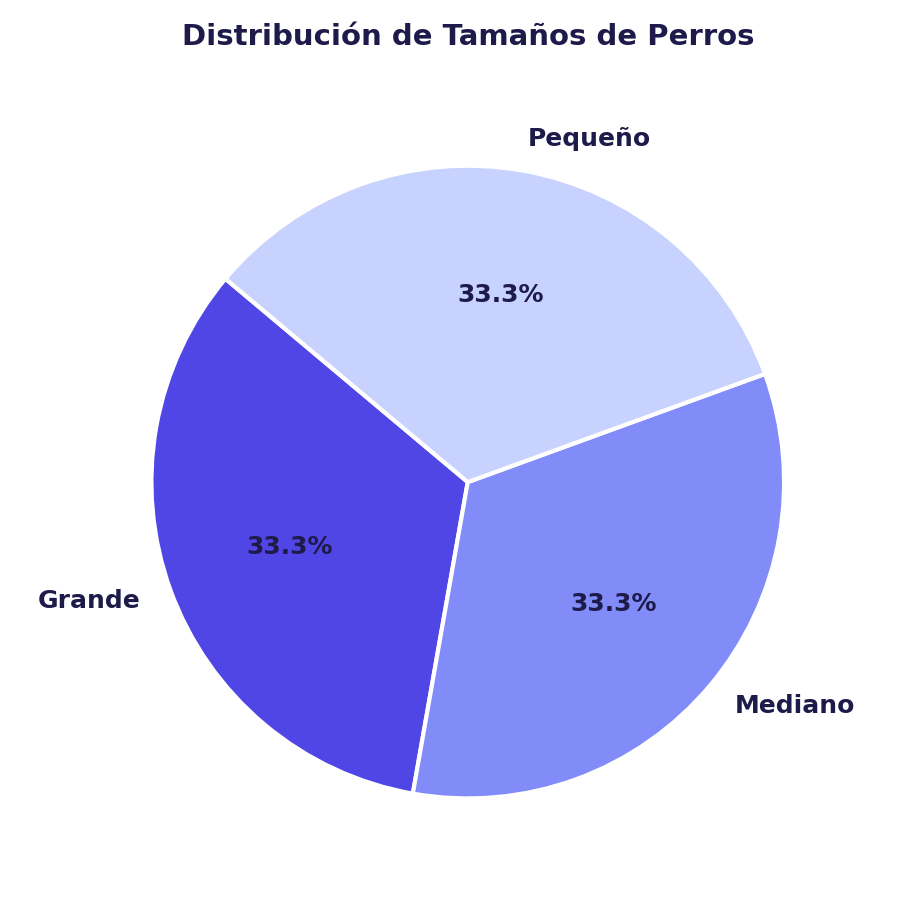
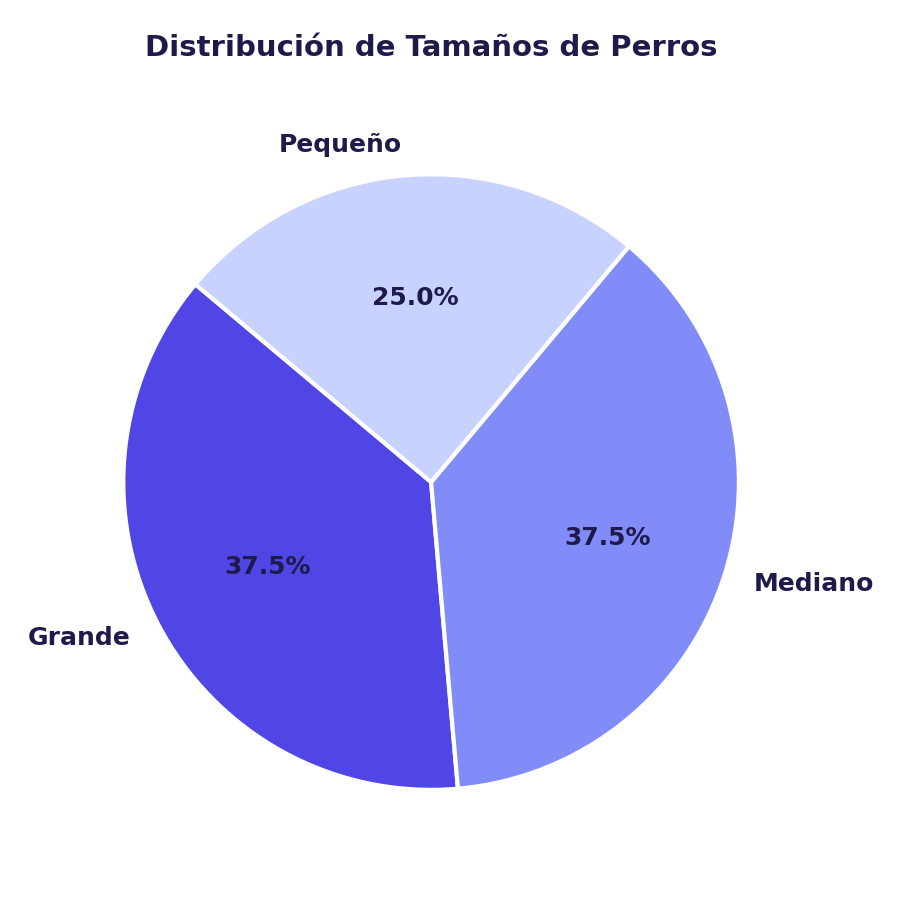
UbicaciónFinalizada

diff --git a/config/locations.php b/config/locations.php
@@ -1,0 +1,49 @@
+<?php
+
+return [
+    'cadiz' => [
+        'Alcalá de los Gazules',
+        'Alcalá del Valle',
+        'Algar',
+        'Algeciras',
+        'Algodonales',
+        'Arcos de la Frontera',
+        'Barbate',
+        'Benalup-Casas Viejas',
+        'Benaocaz',
+        'Bornos',
+        'Cádiz',
+        'Castellar de la Frontera',
+        'Chiclana de la Frontera',
+        'Chipiona',
+        'Conil de la Frontera',
+        'El Bosque',
+        'El Gastor',
+        'El Puerto de Santa María',
+        'Espera',
+        'Grazalema',
+        'Jerez de la Frontera',
+        'Jimena de la Frontera',
+        'La Línea de la Concepción',
+        'Los Barrios',
+        'Medina Sidonia',
+        'Olvera',
+        'Paterna de Rivera',
+        'Prado del Rey',
+        'Puerto Real',
+        'Rota',
+        'San Fernando',
+        'San José del Valle',
+        'San Roque',
+        'Sanlúcar de Barrameda',
+        'Setenil de las Bodegas',
+        'Tarifa',
+        'Torre Alháquime',
+        'Trebujena',
+        'Ubrique',
+        'Vejer de la Frontera',
+        'Villaluenga del Rosario',
+        'Villamartín',
+        'Zahara de la Sierra',
+    ]
+];

diff --git a/database/migrations/2026_06_08_000000_add_location_to_users_and_care_requests_tables.php b/database/migrations/2026_06_08_000000_add_location_to_users_and_care_requests_tables.php
@@ -1,0 +1,43 @@
+<?php
+
+use Illuminate\Database\Migrations\Migration;
+use Illuminate\Database\Schema\Blueprint;
+use Illuminate\Support\Facades\Schema;
+use Illuminate\Support\Facades\DB;
+
+return new class extends Migration
+{
+    /**
+     * Run the migrations.
+     */
+    public function up(): void
+    {
+        Schema::table('users', function (Blueprint $table) {
+            $table->string('location')->nullable()->after('role');
+        });
+
+        Schema::table('care_requests', function (Blueprint $table) {
+            // Using a default value here ensures existing rows are populated with it automatically
+            $table->string('location')->default('El Puerto de Santa María')->after('description');
+        });
+
+        // Set all existing users to 'El Puerto de Santa María'
+        DB::table('users')->update(['location' => 'El Puerto de Santa María']);
+        // Ensure all existing requests are also 'El Puerto de Santa María' (already covered by default, but to be sure)
+        DB::table('care_requests')->update(['location' => 'El Puerto de Santa María']);
+    }
+
+    /**
+     * Reverse the migrations.
+     */
+    public function down(): void
+    {
+        Schema::table('care_requests', function (Blueprint $table) {
+            $table->dropColumn('location');
+        });
+
+        Schema::table('users', function (Blueprint $table) {
+            $table->dropColumn('location');
+        });
+    }
+};

diff --git a/resources/views/care_requests/explore.blade.php b/resources/views/care_requests/explore.blade.php
@@ -14,6 +14,32 @@
                 </div>
             @endif
 
+            <!-- Filtro de Ubicación -->
+            <div class="bg-white border border-brand-100/50 rounded-3xl p-5 mb-6 shadow-sm flex flex-col sm:flex-row sm:items-center sm:justify-between gap-4">
+                <div>
+                    <h3 class="text-sm font-bold text-brand-900">Filtrar por Ubicación</h3>
+                    <p class="text-xs text-accent-500 font-semibold mt-0.5">Encuentra peticiones de cuidado cerca de ti</p>
+                </div>
+                <form action="{{ route('care-requests.explore') }}" method="GET" class="flex flex-col sm:flex-row items-stretch sm:items-center gap-3 w-full sm:w-auto">
+                    <select name="location" class="border-brand-200/80 focus:border-brand-500 focus:ring-brand-500/20 text-xs font-semibold rounded-2xl py-2 px-4 bg-white transition w-full sm:w-64">
+                        <option value="">{{ __('Todas las ubicaciones') }}</option>
+                        @foreach(config('locations.cadiz') as $loc)
+                            <option value="{{ $loc }}" {{ request('location') === $loc ? 'selected' : '' }}>{{ $loc }}</option>
+                        @endforeach
+                    </select>
+                    <div class="flex items-center gap-2">
+                        <button type="submit" class="flex-grow sm:flex-grow-0 py-2 px-5 bg-brand-600 hover:bg-brand-700 text-white text-xs font-bold uppercase tracking-widest rounded-2xl transition shadow-sm hover:scale-[1.01] active:scale-[0.99]">
+                            {{ __('Filtrar') }}
+                        </button>
+                        @if(request('location'))
+                            <a href="{{ route('care-requests.explore') }}" class="py-2 px-4 bg-accent-100 hover:bg-accent-200 text-accent-700 text-xs font-bold uppercase tracking-widest rounded-2xl transition text-center">
+                                {{ __('Limpiar') }}
+                            </a>
+                        @endif
+                    </div>
+                </form>
+            </div>
+
             <div class="grid grid-cols-1 md:grid-cols-2 lg:grid-cols-3 gap-6">
                 @forelse($careRequests as $request)
                     <div class="bg-white overflow-hidden shadow-sm border border-brand-100/50 rounded-3xl hover:shadow-xl hover:shadow-brand-100/10 hover:border-brand-200/50 transition-all duration-300 flex flex-col justify-between group">
@@ -59,6 +85,14 @@
                                         <path stroke-linecap="round" stroke-linejoin="round" stroke-width="2" d="M8 7V3m8 4V3m-9 8h10M5 21h14a2 2 0 002-2V7a2 2 0 00-2-2H5a2 2 0 00-2 2v12a2 2 0 002 2z" />
                                     </svg>
                                     <span>{{ \Carbon\Carbon::parse($request->start_date)->format('d M') }} - {{ \Carbon\Carbon::parse($request->end_date)->format('d M') }}</span>
+                                </div>
+                                
+                                <div class="flex items-center text-sm text-accent-700 font-semibold">
+                                    <svg class="w-4 h-4 mr-2 text-brand-500" fill="none" stroke="currentColor" viewBox="0 0 24 24">
+                                        <path stroke-linecap="round" stroke-linejoin="round" stroke-width="2" d="M17.657 16.657L13.414 20.9a1.998 1.998 0 01-2.827 0l-4.244-4.243a8 8 0 1111.314 0z" />
+                                        <path stroke-linecap="round" stroke-linejoin="round" stroke-width="2" d="M15 11a3 3 0 11-6 0 3 3 0 016 0z" />
+                                    </svg>
+                                    <span>{{ $request->location }}</span>
                                 </div>
                                 
                                 @if($request->description)

diff --git a/app/Http/Controllers/CareRequestController.php b/app/Http/Controllers/CareRequestController.php
@@ -38,12 +38,17 @@ class CareRequestController extends Controller
     /**
      * Display a listing of care requests from other users.
      */
-    public function explore()
+    public function explore(Request $request)
     {
-        $careRequests = CareRequest::where('user_id', '!=', auth()->id())
+        $query = CareRequest::where('user_id', '!=', auth()->id())
             ->where('status', 'pending')
-            ->where('end_date', '>=', now()->toDateString())
-            ->with(['dogs', 'user'])
+            ->where('end_date', '>=', now()->toDateString());
+
+        if ($request->filled('location')) {
+            $query->where('location', $request->location);
+        }
+
+        $careRequests = $query->with(['dogs', 'user'])
             ->latest()
             ->get();
 
@@ -72,6 +77,7 @@ class CareRequestController extends Controller
             'end_date' => 'required|date|after_or_equal:start_date',
             'price' => 'required|numeric|min:0',
             'description' => 'nullable|string',
+            'location' => 'required|string|in:' . implode(',', config('locations.cadiz')),
         ]);
 
         $careRequest = auth()->user()->careRequests()->create([
@@ -79,6 +85,7 @@ class CareRequestController extends Controller
             'end_date' => $request->end_date,
             'price' => $request->price,
             'description' => $request->description,
+            'location' => $request->location,
             'status' => 'pending',
         ]);
 

diff --git a/resources/views/care_requests/create.blade.php b/resources/views/care_requests/create.blade.php
@@ -51,6 +51,18 @@
                                 <x-input-error :messages="$errors->get('price')" class="mt-2" />
                             </div>
 
+                            <!-- Ubicación -->
+                            <div>
+                                <x-input-label for="location" :value="__('Ubicación')" class="text-xs font-black uppercase text-accent-600 tracking-wider mb-1.5" />
+                                <select id="location" name="location" class="block w-full border-brand-200/80 focus:border-brand-500 focus:ring-brand-500/20 text-xs font-semibold rounded-2xl py-2.5 px-3 bg-white placeholder-accent-400 transition" required>
+                                    <option value="" disabled>{{ __('Selecciona una población') }}</option>
+                                    @foreach(config('locations.cadiz') as $loc)
+                                        <option value="{{ $loc }}" {{ old('location', auth()->user()->location ?? 'El Puerto de Santa María') === $loc ? 'selected' : '' }}>{{ $loc }}</option>
+                                    @endforeach
+                                </select>
+                                <x-input-error :messages="$errors->get('location')" class="mt-2" />
+                            </div>
+
                             <!-- Notas/Información Adicional -->
                             <div class="md:col-span-2">
                                 <x-input-label for="description" :value="__('Información adicional / Notas')" class="text-xs font-black uppercase text-accent-600 tracking-wider mb-1.5" />

diff --git a/resources/views/profile/partials/update-profile-information-form.blade.php b/resources/views/profile/partials/update-profile-information-form.blade.php
@@ -88,6 +88,17 @@
             @endif
         </div>
 
+        <div>
+            <x-input-label for="location" :value="__('Ubicación por defecto')" />
+            <select id="location" name="location" class="mt-1 block w-full border-gray-300 focus:border-indigo-500 focus:ring-indigo-500 rounded-md shadow-sm text-sm">
+                <option value="">{{ __('Sin ubicación predeterminada') }}</option>
+                @foreach(config('locations.cadiz') as $loc)
+                    <option value="{{ $loc }}" {{ old('location', $user->location) === $loc ? 'selected' : '' }}>{{ $loc }}</option>
+                @endforeach
+            </select>
+            <x-input-error class="mt-2" :messages="$errors->get('location')" />
+        </div>
+
         <div class="flex items-center gap-4">
             <button type="submit" class="inline-flex items-center justify-center px-5 py-2.5 bg-blue-100 hover:bg-blue-600 text-blue-900 hover:text-white font-bold text-xs uppercase tracking-widest rounded-2xl hover:scale-[1.02] active:scale-[0.98] shadow-sm transition-all duration-150">
                 {{ __('Save') }}

diff --git a/resources/views/care_requests/show.blade.php b/resources/views/care_requests/show.blade.php
@@ -115,6 +115,13 @@
                                         al <span class="font-black text-brand-700">{{ \Carbon\Carbon::parse($careRequest->end_date)->format('d/m/Y') }}</span>
                                     </p>
                                 </div>
+
+                                <div>
+                                    <p class="text-[9px] uppercase text-accent-500 font-black tracking-widest">{{ __('Ubicación') }}</p>
+                                    <p class="text-accent-950 text-sm font-semibold mt-0.5">
+                                        📍 <span class="font-black text-brand-700">{{ $careRequest->location }}</span>
+                                    </p>
+                                </div>
                                 
                                 @if($careRequest->description)
                                     <div>

diff --git a/database/seeders/PlatformSeeder.php b/database/seeders/PlatformSeeder.php
@@ -470,5 +470,9 @@ class PlatformSeeder extends Seeder
             'rating' => 3,
             'comment' => 'El cuidado fue correcto, aunque la comunicación de incidencias fue algo lenta.',
         ]);
+
+        // Update all seeded users and care requests to be in El Puerto de Santa María
+        User::query()->update(['location' => 'El Puerto de Santa María']);
+        CareRequest::query()->update(['location' => 'El Puerto de Santa María']);
     }
 }

diff --git a/app/Models/CareRequest.php b/app/Models/CareRequest.php
@@ -6,7 +6,7 @@ use Illuminate\Database\Eloquent\Model;
 
 class CareRequest extends Model
 {
-    protected $fillable = ['user_id', 'start_date', 'end_date', 'price', 'description', 'status', 'accepted_by'];
+    protected $fillable = ['user_id', 'start_date', 'end_date', 'price', 'description', 'status', 'accepted_by', 'location'];
 
     public function user()
     {

diff --git a/app/Models/User.php b/app/Models/User.php
@@ -10,7 +10,7 @@ use Illuminate\Database\Eloquent\Factories\HasFactory;
 use Illuminate\Foundation\Auth\User as Authenticatable;
 use Illuminate\Notifications\Notifiable;
 
-#[Fillable(['name', 'email', 'password', 'role', 'avatar', 'banned_at'])]
+#[Fillable(['name', 'email', 'password', 'role', 'avatar', 'banned_at', 'location'])]
 #[Hidden(['password', 'remember_token'])]
 class User extends Authenticatable
 {

diff --git a/app/Http/Requests/ProfileUpdateRequest.php b/app/Http/Requests/ProfileUpdateRequest.php
@@ -27,6 +27,7 @@ class ProfileUpdateRequest extends FormRequest
                 Rule::unique(User::class)->ignore($this->user()->id),
             ],
             'avatar' => ['nullable', 'image', 'mimes:jpeg,png,jpg,gif', 'max:2048'],
+            'location' => ['nullable', 'string', Rule::in(config('locations.cadiz'))],
         ];
     }
 }